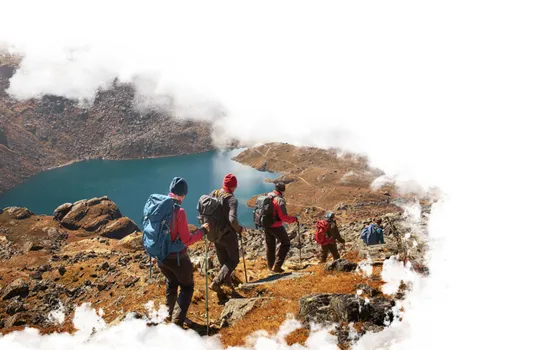
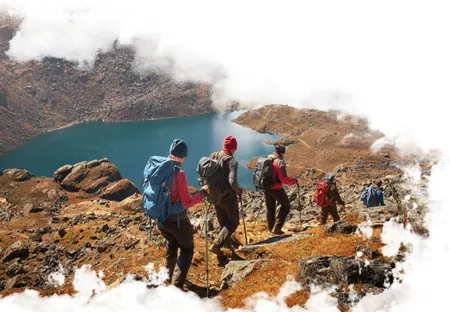
Сетка about для планшета

diff --git a/source/index.html b/source/index.html
@@ -636,26 +636,49 @@
             </div>
           </div>
           <h3 class="training__process-title">Процесс обучения</h3>
-            <ol class="training__process-list">
-              <li class="training__process-item training__process-item--spot">
-                <p class="training__process-description">Изучение спортивного <br>туристского движения</p>
-              </li>
-              <li class="training__process-item training__process-item--equipment">
-                <p class="training__process-description">Подготовка <br>и техническое <br>снаряжение в походах</p>
-              </li>
-              <li class="training__process-item training__process-item--ecology">
-                <p class="training__process-description">Лекции <br>по окружающей<br> среде, экологии и гигиене</p>
-              </li>
-              <li class="training__process-item training__process-item--obstacles">
-                <p class="training__process-description">Разъяснение <br>сложности <br>горных <br>препятствий</p>
-              </li>
-            </ol>
+          <ol class="training__process-list">
+            <li class="training__process-item training__process-item--spot">
+              <p class="training__process-description">Изучение спортивного <br>туристского движения</p>
+            </li>
+            <li class="training__process-item training__process-item--equipment">
+              <p class="training__process-description">Подготовка <br>и техническое <br>снаряжение в походах</p>
+            </li>
+            <li class="training__process-item training__process-item--ecology">
+              <p class="training__process-description">Лекции <br>по окружающей<br> среде, экологии и гигиене</p>
+            </li>
+            <li class="training__process-item training__process-item--obstacles">
+              <p class="training__process-description">Разъяснение <br>сложности <br>горных <br>препятствий</p>
+            </li>
+          </ol>
         </section>
       </div>
     </div>
     <section class="about" data-test="about" id="about">
-      <div class="container">
-        <h2>О нас</h2>
+      <div class="about__image-container">
+        <picture>
+          <source type="image/webp" media="(min-width: 1440px)"
+            srcset="img/about/about-bg-desktop@1x.webp 1x, img/about/about-bg-desktop@2x.webp 2x" width="660"
+            height="498">
+          <source type="image/webp" media="(min-width: 768px)"
+            srcset="img/about/about-bg-tablet@1x.webp 1x, img/about/about-bg-tablet@2x.webp 2x" width="450"
+            height="312">
+          <source type="image/png" media="(min-width: 1440px)"
+            srcset="img/about/about-bg-desktop@1x.png 1x, img/about/about-bg-desktop@@2x.png 2x" width="660"
+            height="498">
+          <source type="image/jpeg" media="(min-width: 768px)"
+            srcset="img/about/about-bg-tablet@1x.jpg 1x, img/about/about-bg-tablet@2x.jpg 2x" width="450"
+            height="312">
+          <source type="image/webp" media="(max-width: 767px)"
+            srcset="img/about/about-bg-mobile@1x.webp 1x, img/about/about-bg-mobile@2x.webp 2x" width="320"
+            height="400">
+          <img class="about__image" src="img/about/about-bg-mobile@1x.png" alt="Группа Lifetour на экспедиции." width="320" height="400">
+        </picture>
+      </div>
+      <div class="container container--about-tablet-plus">
+        <div class="about__title-container">
+          <h2>О нас</h2>
+          <p aria-hidden="true"><span>О нас</span></p>
+        </div>
         <div>
           <h3>История компании</h3>
           <p>В далёком 2000 году мы начали заниматься туризмом — походы, поездки, восхождения, нам это настолько

diff --git a/source/sass/blocks/about.scss b/source/sass/blocks/about.scss
@@ -1,32 +1,42 @@
 @use "../global/variables";
 
 .about {
-  background-image:
+  position: relative;
+  /* background-image:
     image-set(url("../../img/about/about-bg-mobile@1x.webp") type("image/webp") 1x,
     url("../../img/about/about-bg-mobile@2x.webp") type("image/webp") 2x,
     url("../../img/about/about-bg-mobile@1x.png") type("image/png") 1x,
     url("../../img/about/about-bg-mobile@2x.png") type("image/png") 2x);
   background-repeat: no-repeat;
-  background-size: 434px 400px;
-  background-position: top;
+  background-size: 100% auto;
+  background-position: center 20px; */
+  margin: 0 auto;
+  padding-top: 20px;
+  padding-bottom: 20px;
 
   @media (min-width: $tablet-width) {
-    background-image:
+    min-width: 768px;
+    max-width: 768px;
+
+    /* background-image:
       image-set(url("../../img/about/about-bg-tablet@1x.webp") type("image/webp") 1x,
       url("../../img/about/about-bg-tablet@2x.webp") type("image/webp") 2x,
       url("../../img/about/about-bg-tablet@1x.png") type("image/png") 1x,
       url("../../img/about/about-bg-tablet@2x.png") type("image/png") 2x);
-    background-size: 542px 350px;
-    background-position: left center;
+    background-size: auto;
+    background-position: left 134px; */
+    padding-top: 60px;
   }
 
   @media (min-width: $desktop-width) {
-    background-image:
+    min-width: 1440px;
+    max-width: 1440px;
+    /* background-image:
       image-set(url("../../img/about/about-bg-desktop@1x.webp") type("image/webp") 1x,
       url("../../img/about/about-bg-desktop@2x.webp") type("image/webp") 2x,
       url("../../img/about/about-bg-desktop@1x.png") type("image/png") 1x,
       url("../../img/about/about-bg-desktop@2x.png") type("image/png") 2x);
-    background-size: 660px 498px;
+    background-size: 660px 498px; */
   }
 
   h2 {
@@ -34,6 +44,29 @@
     line-height: 22px;
     font-weight: 800;
     margin: 0;
+    margin-bottom: 42px;
+  }
+
+  p:has(span) {
+    position: absolute;
+    top: -10px;
+    left: 7px;
+    font-size: 26px;
+    line-height: 26px;
+    font-weight: 800;
+    color: $primary-text-color;
+    opacity: 0.03;
+    margin: 0;
+
+    @media (min-width: $tablet-width) {
+      font-size: 40px;
+      line-height: 40px;
+    }
+
+    @media (min-width: $desktop-width) {
+      font-size: 55px;
+      line-height: 55px;
+    }
   }
 
   h3 {
@@ -41,12 +74,17 @@
     line-height: 16px;
     font-weight: 700;
     margin: 0;
+    margin-bottom: 15px;
   }
 
   p {
     font-size: 14px;
     line-height: 20px;
     margin: 0;
+  }
+
+  div:nth-of-type(2) p {
+    margin-bottom: 25px;
   }
 
   @media (min-width: $tablet-width) {
@@ -81,5 +119,16 @@
       font-size: 14px;
       line-height: 22px;
     }
+  }
+}
+
+.about__title-container {
+  position: relative;
+}
+
+.about__image-container {
+  @media (min-width: $tablet-width) {
+    position: absolute;
+    top: 172px;
   }
 }

diff --git a/source/sass/global/container.scss b/source/sass/global/container.scss
@@ -26,3 +26,17 @@
     padding-right: 125px;
   }
 }
+
+.container--about-tablet-plus {
+  margin: 0;
+
+  @media (min-width: $tablet-width) {
+    padding-left: 450px;
+    padding-right: 0;
+  }
+
+  @media (min-width: $desktop-width) {
+    min-width: 585px;
+    max-width: 585px;
+  }
+}
